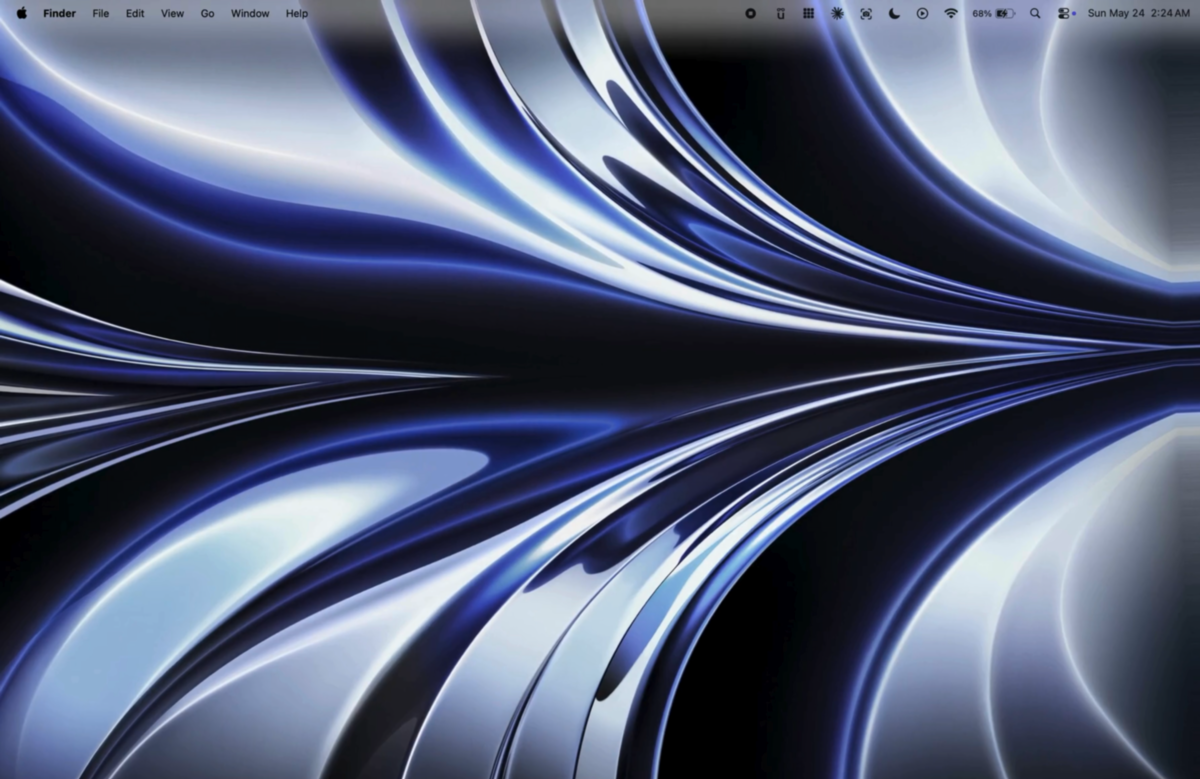
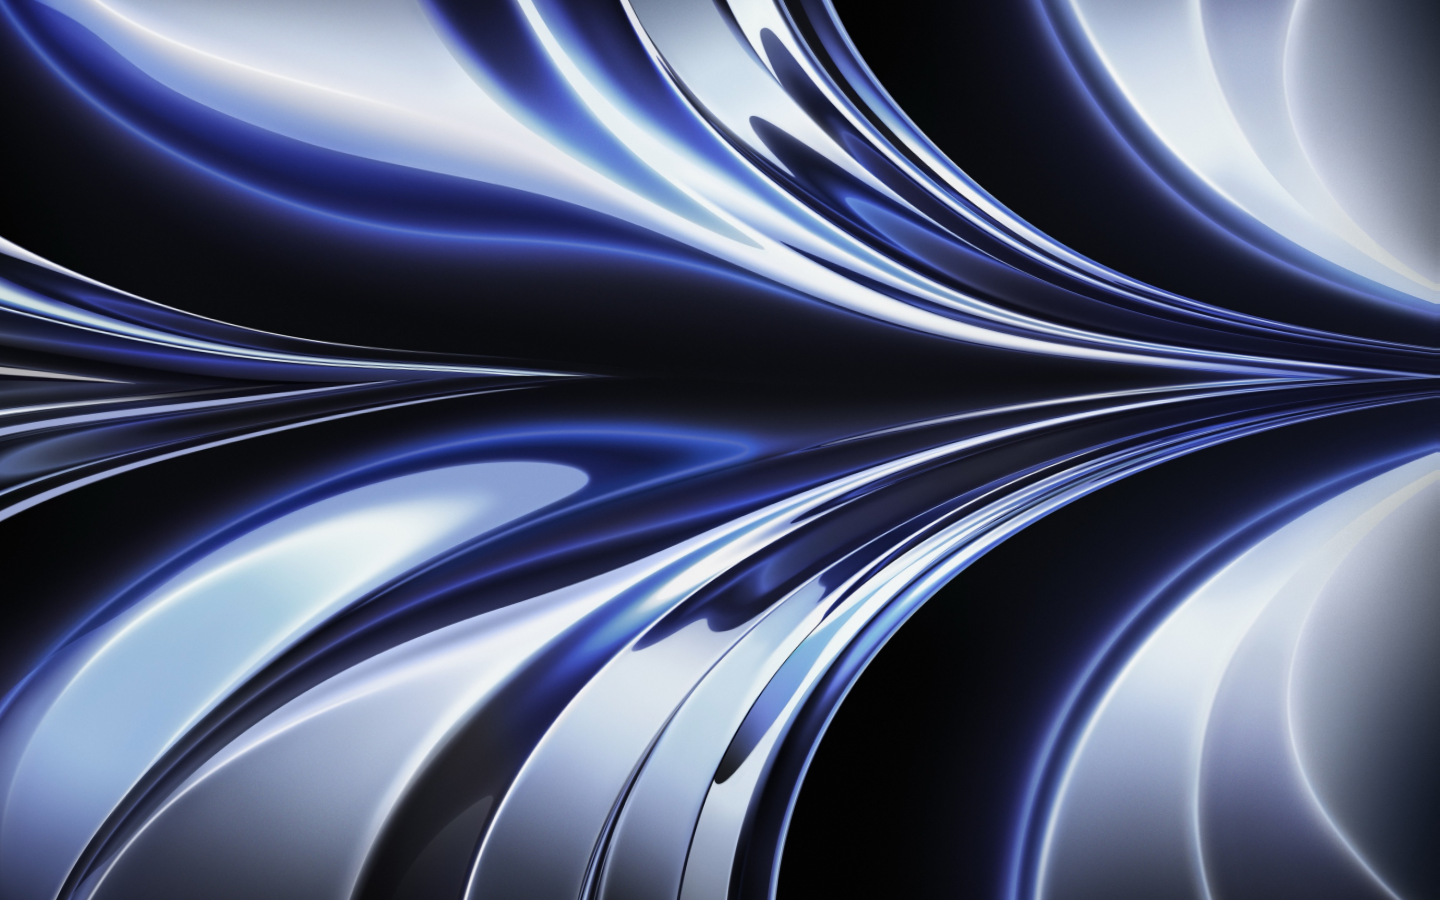
Restage screenshots

diff --git a/README.md b/README.md
@@ -18,9 +18,7 @@ runs on any Mac with no extra files beyond the bundled assets.
 
 The widget running alongside the full set:
 
-![The Übersicht widget suite running on a desktop](https://raw.githubusercontent.com/jke48222/widget-suite/main/homescreen.gif)
-
-[Full-resolution video](media/homescreen.mp4)
+![The Übersicht widget suite composed on one desktop](https://raw.githubusercontent.com/jke48222/widget-suite/main/homescreen.png)
 
 ## Requirements
 
